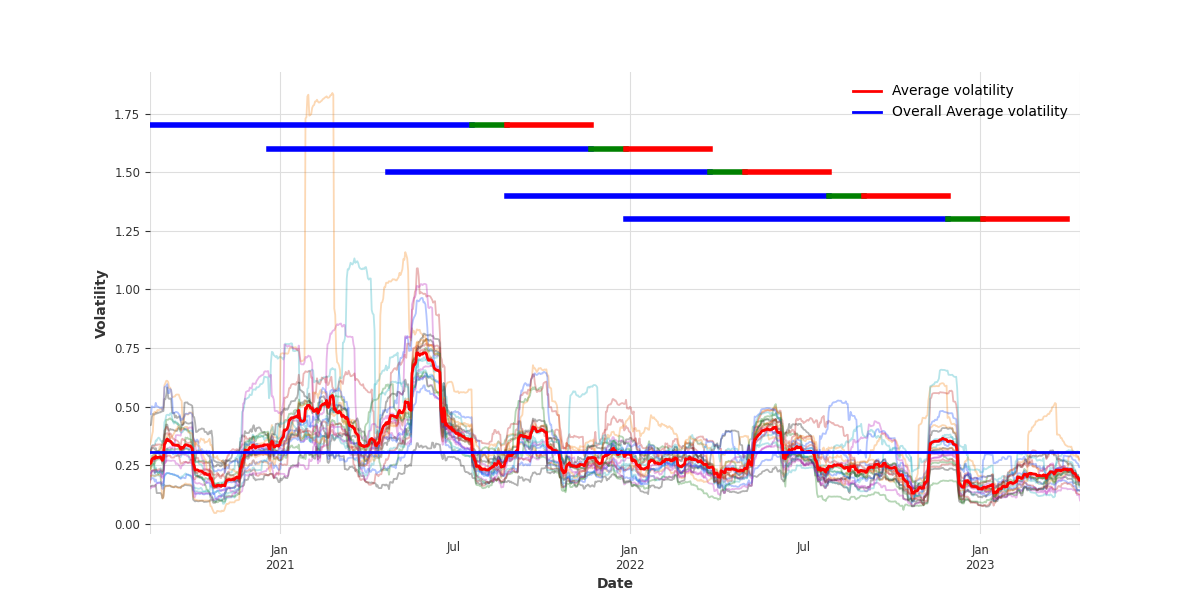
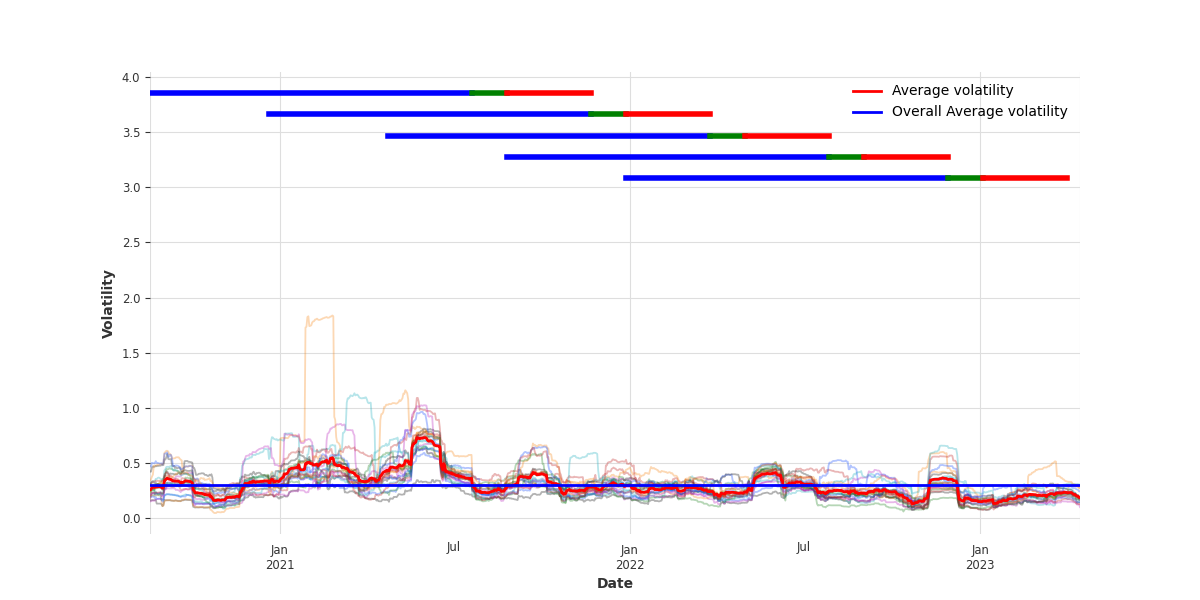
code

diff --git a/src/hyperopt/hyper_opt_ray5_2.py b/src/hyperopt/hyper_opt_ray5_2.py
@@ -1,13 +1,26 @@
 import os
-import shutil
-from ray import tune
-from darts.models import NBEATSModel
-from darts.metrics import rmse, mae
 import matplotlib.pyplot as plt
+from ray import tune
+from darts.metrics import rmse, mae
+
+# Models
+from darts.models import (
+    StatsForecastAutoARIMA,
+    RNNModel,
+    TCNModel,
+    NBEATSModel,
+    TFTModel,
+    RandomForest,
+    XGBModel,
+    LightGBMModel,
+    NHiTSModel,
+    TBATS,
+    Prophet,
+)
 
 # Local files
 from config import config, search_alg, get_reporter, scheduler
-from data import get_train_test, all_coins, timeframes
+from data import get_train_test, all_coins, timeframes, models
 
 
 def plot_results(val, pred):
@@ -21,6 +34,29 @@ def plot_results(val, pred):
     plt.title("Test Set vs. Forecast")
     plt.show()
     plt.close()
+
+
+def get_model(full_model_name: str, model_args: dict):
+    model_name = full_model_name.split("_")[0]
+
+    if model_name.split("_")[0] not in models:
+        raise ValueError(f"Model {model_name} not found in {models}")
+
+    default_args = {
+        "output_chunk_length": 1,  # 1 step ahead forecasting
+        "pl_trainer_kwargs": {
+            "enable_progress_bar": False,
+            "accelerator": "auto",
+        },
+    }
+
+    # add default args to model_args
+    model_args.update(default_args)
+
+    if model_name == "ARIMA":
+        return StatsForecastAutoARIMA(model_name=full_model_name, **model_args)
+    elif model_name == "NBEATS":
+        return NBEATSModel(model_name=full_model_name, **model_args)
 
 
 # n_epochs = 10 , MAE 0.036, RMSE 0.045, 11 minutes
@@ -38,16 +74,7 @@ def train_model(
     if save_checkpoints:
         model_args.update({"save_checkpoints": True, "force_reset": True})
 
-    # Create the model using model_args from Ray Tune
-    model = NBEATSModel(
-        output_chunk_length=1,  # 1 step ahead forecasting
-        pl_trainer_kwargs={
-            "enable_progress_bar": False,
-            "accelerator": "auto",
-        },
-        model_name=model_name,
-        **model_args,
-    )
+    model = get_model(model_name, model_args)
 
     val_len = int(0.1 * len(train_series[0]))
     val = train_series[period][-val_len:]
@@ -143,8 +170,8 @@ def hyperopt_dataset(model_name: str, coin: str, time_frame: str, num_samples: i
     train_series, _ = get_train_test(coin=coin, time_frame=time_frame)
 
     # Do for all periods
-    # for period in range(0, 9):
-    hyperopt(train_series, model_name, 0, coin, time_frame, num_samples)
+    for period in range(0, 5):
+        hyperopt(train_series, model_name, period, coin, time_frame, num_samples)
 
 
 def hyperopt_full():

diff --git a/src/experiment/train_test.py b/src/experiment/train_test.py
@@ -8,7 +8,7 @@ from data.vars import all_coins
 
 
 # Load your data (replace this with your actual data)
-def get_train_test(coin="BTC", time_frame="1d", n_periods=9, test_size_percentage=0.25):
+def get_train_test(coin="BTC", time_frame="1d", n_periods=5, test_size_percentage=0.25):
     # Read data from a CSV file
     data = read_csv(coin, time_frame, ["log returns"]).dropna()
     data["date"] = data.index
@@ -40,7 +40,7 @@ def get_train_test(coin="BTC", time_frame="1d", n_periods=9, test_size_percentag
 
 def plot_periods(
     timeframe="1d",
-    n_periods=9,
+    n_periods=5,
     test_size_percentage=0.25,
     val_size_percentage=0.1,
     col_name="volatility",
@@ -54,7 +54,7 @@ def plot_periods(
     timeframe : str, optional
         The time frame to use, by default "1d"
     n_periods : int, optional
-        The number of periods to plot, by default 9
+        The number of periods to plot, by default 5
     test_size_percentage : float, optional
         The percentage of the data to use for testing, by default 0.25
     """
@@ -100,7 +100,9 @@ def plot_periods(
     # print("Train size:", train_size)
     # print("Test size:", test_size)
 
-    line_start = 1.7
+    ymin, ymax = ax.get_ylim()
+
+    line_start = ymax * 2
     for i in range(n_periods):
         # The train start shifts by the test size each period
         train_start = i * test_size
@@ -149,7 +151,7 @@ def plot_periods(
             color="red",
             linewidth=4,
         )
-        line_start -= 0.1
+        line_start -= ymax * 0.1
 
     # Show legends only for the average volatility and overall average volatility lines
     ax.legend(handles=[avg_line[0], overall_avg_line], loc="best")

diff --git a/src/hyperopt/config.py b/src/hyperopt/config.py
@@ -10,6 +10,7 @@ from ray.tune.search.bayesopt import BayesOptSearch
 
 # define the hyperparameter space
 config = {
+    "ARIMA": {},  # auto arima is used
     "NBEATS": {
         "input_chunk_length": tune.choice([1, 5, 10, 15, 20, 30, 40, 50]),
         "n_epochs": tune.choice([10, 25, 50, 100]),
@@ -18,7 +19,7 @@ config = {
         "dropout": tune.uniform(0, 0.5),
         "num_layers": tune.choice([2, 3, 4, 5]),
         "num_blocks": tune.choice([1, 2, 3, 4, 5]),
-    }
+    },
 }
 
 config2 = {

diff --git a/src/hyperopt/data.py b/src/hyperopt/data.py
@@ -10,8 +10,21 @@ all_coins = large_cap + mid_cap + small_cap
 
 timeframes = ["1m", "15m", "4h", "1d"]
 
-# TODO add models
-models = []
+models = [
+    "ARIMA",
+    "RNN",
+    "LSTM",
+    "GRU",
+    "TCN",
+    "NBEATS",
+    "TFT",
+    "RANDOM FOREST",
+    "XGBOOST",
+    "LIGHTGBM",
+    "NHITS",
+    "TBATS",
+    "PROPHET",
+]
 
 
 def read_csv(coin: str, timeframe: str, col_names: list = ["close"]):

diff --git a/src/main.py b/src/main.py
@@ -55,5 +55,6 @@ def models():
 if __name__ == "__main__":
     # elapsed_time = timeit.timeit(models, number=1)
     # print(f"Time elapsed: {elapsed_time:.2f} seconds")
-    print()
-    # train_test.plot_periods(n_periods=5)
+    # train_test.plot_periods(timeframe="1d", n_periods=5)
+    train, test = train_test.get_train_test()
+    print(len(train[0]))
